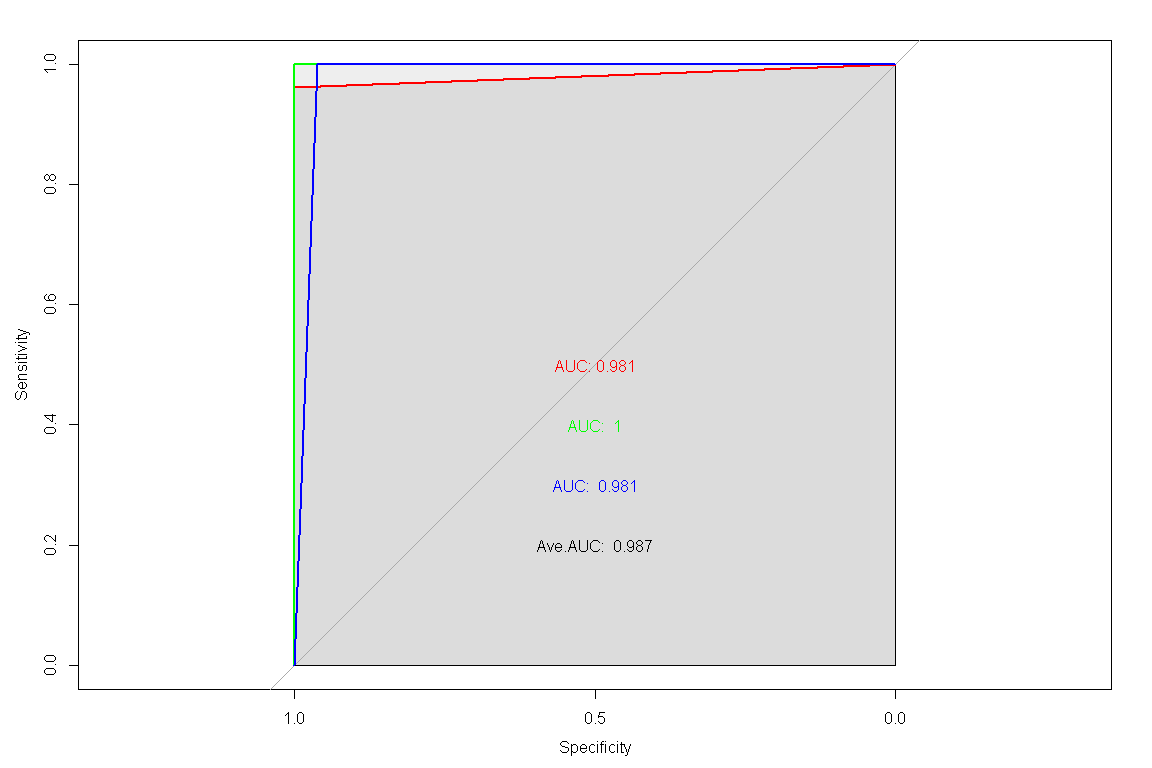
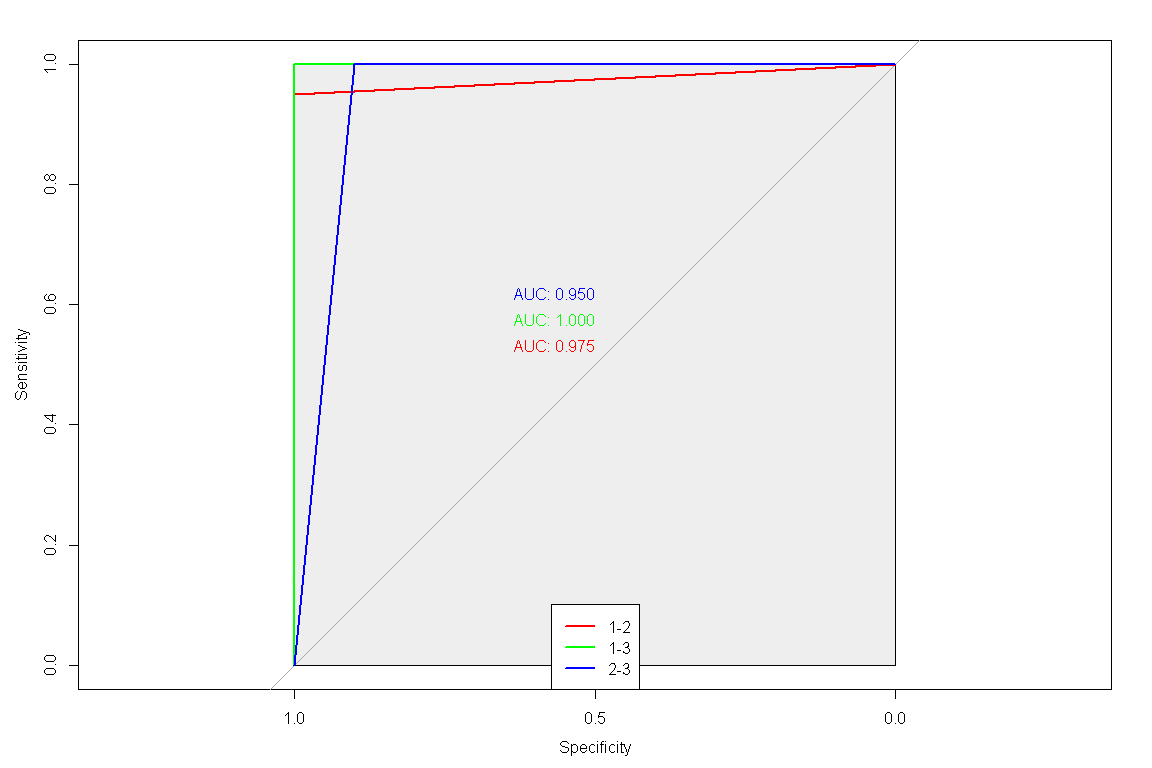
update plot.roc

diff --git a/분류분석-로지스틱회귀분석.md b/분류분석-로지스틱회귀분석.md
@@ -60,11 +60,11 @@ viewSamples(VA)
 ```
 
     ##     stime status treat age Karn diag.time cell prior
-    ## 11     42      1     1  81   60         4    1     0
-    ## 12      8      1     1  63   40        58    1    10
-    ## 35     52      1     1  55   70         2    2     0
-    ## 37     18      1     1  60   30         4    2     0
-    ## 134   111      1     2  64   60         5    4     0
+    ## 7      82      1     1  69   40        10    1    10
+    ## 43     63      1     1  48   50        11    2     0
+    ## 71    112      1     2  60   80         6    1     0
+    ## 119     7      1     2  58   40         4    3     0
+    ## 135   231      1     2  67   70        18    4    10
 
 ``` r
 idx <- sample(1:nrow(snails), nrow(snails)*0.7, replace = F)
@@ -79,25 +79,25 @@ summary(snails.glm)
     ## glm(formula = Species ~ ., family = "binomial", data = snails.train)
     ## 
     ## Deviance Residuals: 
-    ##      Min        1Q    Median        3Q       Max  
-    ## -2.46152  -0.77467   0.09835   0.83773   1.96514  
+    ##     Min       1Q   Median       3Q      Max  
+    ## -1.9684  -0.8787  -0.3476   0.9610   1.8659  
     ## 
     ## Coefficients: (1 not defined because of singularities)
-    ##             Estimate Std. Error z value Pr(>|z|)    
-    ## (Intercept) -6.40170    3.75055  -1.707 0.087846 .  
-    ## Exposure    -1.98579    0.58945  -3.369 0.000755 ***
-    ## Rel.Hum      0.17522    0.06370   2.751 0.005949 ** 
-    ## Temp        -0.19139    0.08795  -2.176 0.029552 *  
-    ## Deaths       0.91797    0.26148   3.511 0.000447 ***
-    ## N                 NA         NA      NA       NA    
+    ##             Estimate Std. Error z value Pr(>|z|)   
+    ## (Intercept) -7.00777    3.68361  -1.902  0.05712 . 
+    ## Exposure    -1.53089    0.52279  -2.928  0.00341 **
+    ## Rel.Hum      0.14962    0.05693   2.628  0.00859 **
+    ## Temp        -0.10208    0.07320  -1.394  0.16318   
+    ## Deaths       0.79294    0.24582   3.226  0.00126 **
+    ## N                 NA         NA      NA       NA   
     ## ---
     ## Signif. codes:  0 '***' 0.001 '**' 0.01 '*' 0.05 '.' 0.1 ' ' 1
     ## 
     ## (Dispersion parameter for binomial family taken to be 1)
     ## 
     ##     Null deviance: 92.747  on 66  degrees of freedom
-    ## Residual deviance: 65.714  on 62  degrees of freedom
-    ## AIC: 75.714
+    ## Residual deviance: 72.182  on 62  degrees of freedom
+    ## AIC: 82.182
     ## 
     ## Number of Fisher Scoring iterations: 5
 
@@ -106,19 +106,19 @@ summary(snails.glm)
 step(snails.glm, method = "backward")
 ```
 
-    ## Start:  AIC=75.71
+    ## Start:  AIC=82.18
     ## Species ~ Exposure + Rel.Hum + Temp + Deaths + N
     ## 
     ## 
-    ## Step:  AIC=75.71
+    ## Step:  AIC=82.18
     ## Species ~ Exposure + Rel.Hum + Temp + Deaths
     ## 
-    ##            Df Deviance     AIC
-    ## <none>          65.714  75.714
-    ## - Temp      1   71.114  79.114
-    ## - Rel.Hum   1   75.078  83.078
-    ## - Exposure  1   82.647  90.647
-    ## - Deaths    1   92.332 100.332
+    ##            Df Deviance    AIC
+    ## <none>          72.182 82.182
+    ## - Temp      1   74.217 82.217
+    ## - Rel.Hum   1   80.321 88.321
+    ## - Exposure  1   83.584 91.584
+    ## - Deaths    1   91.319 99.319
 
     ## 
     ## Call:  glm(formula = Species ~ Exposure + Rel.Hum + Temp + Deaths, family = "binomial", 
@@ -126,11 +126,11 @@ step(snails.glm, method = "backward")
     ## 
     ## Coefficients:
     ## (Intercept)     Exposure      Rel.Hum         Temp       Deaths  
-    ##     -6.4017      -1.9858       0.1752      -0.1914       0.9180  
+    ##     -7.0078      -1.5309       0.1496      -0.1021       0.7929  
     ## 
     ## Degrees of Freedom: 66 Total (i.e. Null);  62 Residual
     ## Null Deviance:       92.75 
-    ## Residual Deviance: 65.71     AIC: 75.71
+    ## Residual Deviance: 72.18     AIC: 82.18
 
 ``` r
 # 변수 선택법 적용
@@ -145,23 +145,23 @@ summary(snails.glm)
     ## 
     ## Deviance Residuals: 
     ##     Min       1Q   Median       3Q      Max  
-    ## -1.5338  -0.8969   0.1987   1.0224   1.5257  
+    ## -1.4969  -1.1265  -0.5609   1.1516   1.5550  
     ## 
     ## Coefficients:
     ##             Estimate Std. Error z value Pr(>|z|)   
-    ## (Intercept)   1.4554     0.7757   1.876   0.0606 . 
-    ## Exposure     -1.0791     0.4192  -2.574   0.0100 * 
-    ## Deaths        0.5179     0.1739   2.978   0.0029 **
+    ## (Intercept)   0.9764     0.7380   1.323  0.18583   
+    ## Exposure     -0.9154     0.4136  -2.213  0.02688 * 
+    ## Deaths        0.4873     0.1802   2.704  0.00684 **
     ## ---
     ## Signif. codes:  0 '***' 0.001 '**' 0.01 '*' 0.05 '.' 0.1 ' ' 1
     ## 
     ## (Dispersion parameter for binomial family taken to be 1)
     ## 
     ##     Null deviance: 92.747  on 66  degrees of freedom
-    ## Residual deviance: 77.494  on 64  degrees of freedom
-    ## AIC: 83.494
+    ## Residual deviance: 81.354  on 64  degrees of freedom
+    ## AIC: 87.354
     ## 
-    ## Number of Fisher Scoring iterations: 5
+    ## Number of Fisher Scoring iterations: 4
 
 ``` r
 snails.pred <- predict(snails.glm, snails.test, type = "response")
@@ -169,7 +169,7 @@ snails.pred <- ifelse(round(snails.pred) == 1, "A", "B")
 mean(snails.pred == snails.test$Species)
 ```
 
-    ## [1] 0.3103448
+    ## [1] 0.1724138
 
 ``` r
 library(caret)
@@ -181,26 +181,26 @@ cM
     ## 
     ##           Reference
     ## Prediction  A  B
-    ##          A  6 10
-    ##          B 10  3
+    ##          A  2 13
+    ##          B 11  3
     ##                                           
-    ##                Accuracy : 0.3103          
-    ##                  95% CI : (0.1528, 0.5083)
+    ##                Accuracy : 0.1724          
+    ##                  95% CI : (0.0585, 0.3577)
     ##     No Information Rate : 0.5517          
-    ##     P-Value [Acc > NIR] : 0.9975          
+    ##     P-Value [Acc > NIR] : 1.0000          
     ##                                           
-    ##                   Kappa : -0.3942         
+    ##                   Kappa : -0.6493         
     ##                                           
-    ##  Mcnemar's Test P-Value : 1.0000          
+    ##  Mcnemar's Test P-Value : 0.8383          
     ##                                           
-    ##             Sensitivity : 0.3750          
-    ##             Specificity : 0.2308          
-    ##          Pos Pred Value : 0.3750          
-    ##          Neg Pred Value : 0.2308          
-    ##              Prevalence : 0.5517          
-    ##          Detection Rate : 0.2069          
-    ##    Detection Prevalence : 0.5517          
-    ##       Balanced Accuracy : 0.3029          
+    ##             Sensitivity : 0.15385         
+    ##             Specificity : 0.18750         
+    ##          Pos Pred Value : 0.13333         
+    ##          Neg Pred Value : 0.21429         
+    ##              Prevalence : 0.44828         
+    ##          Detection Rate : 0.06897         
+    ##    Detection Prevalence : 0.51724         
+    ##       Balanced Accuracy : 0.17067         
     ##                                           
     ##        'Positive' Class : A               
     ## 
@@ -210,7 +210,7 @@ cM$byClass[c("Balanced Accuracy", "F1")]
 ```
 
     ## Balanced Accuracy                F1 
-    ##         0.3028846         0.3750000
+    ##         0.1706731         0.1428571
 
 ``` r
 library(ROCR)
@@ -237,18 +237,16 @@ iris.mlm <- multinom(Species ~ ., iris.train)
 
     ## # weights:  18 (10 variable)
     ## initial  value 98.875106 
-    ## iter  10 value 13.264427
-    ## iter  20 value 3.094132
-    ## iter  30 value 2.870130
-    ## iter  40 value 2.704871
-    ## iter  50 value 2.580495
-    ## iter  60 value 2.551908
-    ## iter  70 value 2.500191
-    ## iter  80 value 2.468673
-    ## iter  90 value 2.392447
-    ## iter 100 value 2.378332
-    ## final  value 2.378332 
-    ## stopped after 100 iterations
+    ## iter  10 value 8.174787
+    ## iter  20 value 4.612951
+    ## iter  30 value 4.525776
+    ## iter  40 value 4.524699
+    ## iter  50 value 4.523773
+    ## iter  60 value 4.523484
+    ## iter  70 value 4.523262
+    ## iter  80 value 4.523142
+    ## final  value 4.523066 
+    ## converged
 
 ``` r
 summary(iris.mlm)
@@ -259,16 +257,16 @@ summary(iris.mlm)
     ## 
     ## Coefficients:
     ##            (Intercept) Sepal.Length Sepal.Width Petal.Length Petal.Width
-    ## versicolor    39.58354    -1.027939   -20.63928     16.48789   -19.11263
-    ## virginica    -51.60185    -4.708711   -36.53829     32.75113    27.25361
+    ## versicolor    31.51012     1.088692   -20.26317     9.012152   -3.078942
+    ## virginica    -25.84875     0.792315   -26.92887    19.577195   12.170638
     ## 
     ## Std. Errors:
     ##            (Intercept) Sepal.Length Sepal.Width Petal.Length Petal.Width
-    ## versicolor    75.76592     131.7158    186.7880     20.83070    102.0115
-    ## virginica     81.38904     131.9326    187.4613     29.48298    104.5110
+    ## versicolor    29.85248     222.3947    306.6516     94.73794    57.80433
+    ## virginica     31.63491     222.3943    306.7218     95.00939    58.18017
     ## 
-    ## Residual Deviance: 4.756665 
-    ## AIC: 24.75666
+    ## Residual Deviance: 9.046132 
+    ## AIC: 29.04613
 
 ``` r
 iris.pred <- predict(iris.mlm, iris.test[,-5])
@@ -279,49 +277,53 @@ confusionMatrix(iris.pred, iris.test[,5])
     ## 
     ##             Reference
     ## Prediction   setosa versicolor virginica
-    ##   setosa         17          0         0
-    ##   versicolor      1         24         1
-    ##   virginica       0          0        17
+    ##   setosa         19          0         0
+    ##   versicolor      1         17         2
+    ##   virginica       0          0        21
     ## 
     ## Overall Statistics
     ##                                           
-    ##                Accuracy : 0.9667          
-    ##                  95% CI : (0.8847, 0.9959)
-    ##     No Information Rate : 0.4             
+    ##                Accuracy : 0.95            
+    ##                  95% CI : (0.8608, 0.9896)
+    ##     No Information Rate : 0.3833          
     ##     P-Value [Acc > NIR] : < 2.2e-16       
     ##                                           
-    ##                   Kappa : 0.9492          
+    ##                   Kappa : 0.9249          
     ##                                           
     ##  Mcnemar's Test P-Value : NA              
     ## 
     ## Statistics by Class:
     ## 
     ##                      Class: setosa Class: versicolor Class: virginica
-    ## Sensitivity                 0.9444            1.0000           0.9444
-    ## Specificity                 1.0000            0.9444           1.0000
-    ## Pos Pred Value              1.0000            0.9231           1.0000
-    ## Neg Pred Value              0.9767            1.0000           0.9767
-    ## Prevalence                  0.3000            0.4000           0.3000
-    ## Detection Rate              0.2833            0.4000           0.2833
-    ## Detection Prevalence        0.2833            0.4333           0.2833
-    ## Balanced Accuracy           0.9722            0.9722           0.9722
+    ## Sensitivity                 0.9500            1.0000           0.9130
+    ## Specificity                 1.0000            0.9302           1.0000
+    ## Pos Pred Value              1.0000            0.8500           1.0000
+    ## Neg Pred Value              0.9756            1.0000           0.9487
+    ## Prevalence                  0.3333            0.2833           0.3833
+    ## Detection Rate              0.3167            0.2833           0.3500
+    ## Detection Prevalence        0.3167            0.3333           0.3500
+    ## Balanced Accuracy           0.9750            0.9651           0.9565
 
 ``` r
 library(pROC)
 iris.roc <- multiclass.roc(as.numeric(iris.pred), as.numeric(iris.test[,5]))
 # par(mfrow = c(1,3))
-# plot.roc(iris.roc$rocs[[1]], col = "red", print.auc = T, max.auc.polygon=TRUE, auc.polygon=TRUE)
-# plot.roc(iris.roc$rocs[[2]], col = "green", print.auc = T, max.auc.polygon=TRUE, auc.polygon=TRUE)
-# plot.roc(iris.roc$rocs[[3]], col = "blue", print.auc = T, max.auc.polygon=TRUE, auc.polygon=TRUE)
-plot.roc(iris.roc$rocs[[1]], col = "red", print.auc = T, print.auc.adj=c(0.5, 0.5), max.auc.polygon=TRUE, auc.polygon=TRUE)
-lines.roc(iris.roc$rocs[[2]], col="green")
-text(0.5, 0.4, paste("AUC: ", round(auc(iris.roc$rocs[[2]]),3)), col = "green" )
-lines.roc(iris.roc$rocs[[3]], col="blue")
-text(0.5, 0.3, paste("AUC: ", round(auc(iris.roc$rocs[[3]]),3)), col = "blue" )
-text(0.5, 0.2, paste("Ave.AUC: ", round(iris.roc$auc,3)), col = "black" )
+plot.roc(iris.roc$rocs[[1]], col = "red", print.auc = T, print.auc.adj=c(1, -1), max.auc.polygon=TRUE)
+plot.roc(iris.roc$rocs[[2]], col = "green", print.auc = T, print.auc.adj=c(1, -3), add = T)
+plot.roc(iris.roc$rocs[[3]], col = "blue", print.auc = T, print.auc.adj=c(1, -5), add = T)
+legend("bottom", legend = c("1-2", "1-3", "2-3"), col = c("red", "green", "blue"), lwd=2)
 ```
 
 ![](분류분석-로지스틱회귀분석_files/figure-gfm/unnamed-chunk-16-1.png)<!-- -->
+
+``` r
+# plot.roc(iris.roc$rocs[[1]], col = "red", print.auc = T, print.auc.adj=c(0.5, 0.5), max.auc.polygon=TRUE, auc.polygon=TRUE)
+# lines.roc(iris.roc$rocs[[2]], col="green")
+# text(0.5, 0.4, paste("AUC: ", round(auc(iris.roc$rocs[[2]]),3)), col = "green" )
+# lines.roc(iris.roc$rocs[[3]], col="blue")
+# text(0.5, 0.3, paste("AUC: ", round(auc(iris.roc$rocs[[3]]),3)), col = "blue" )
+# text(0.5, 0.2, paste("Ave.AUC: ", round(iris.roc$auc,3)), col = "black" )
+```
 
 -----
 
